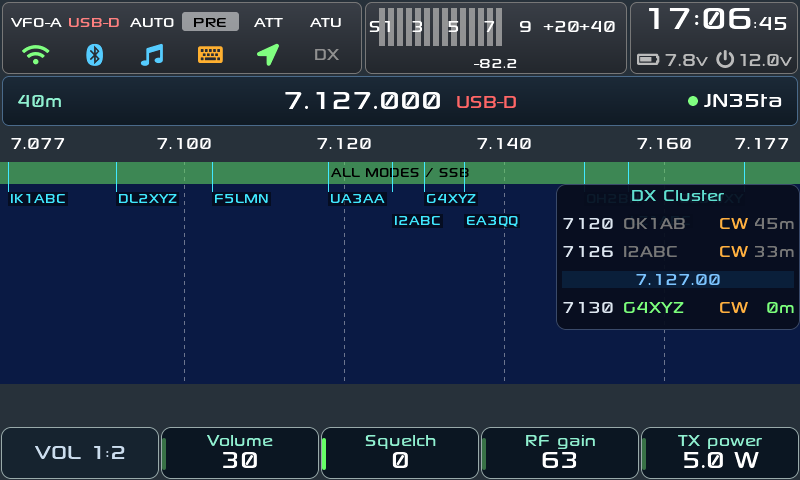
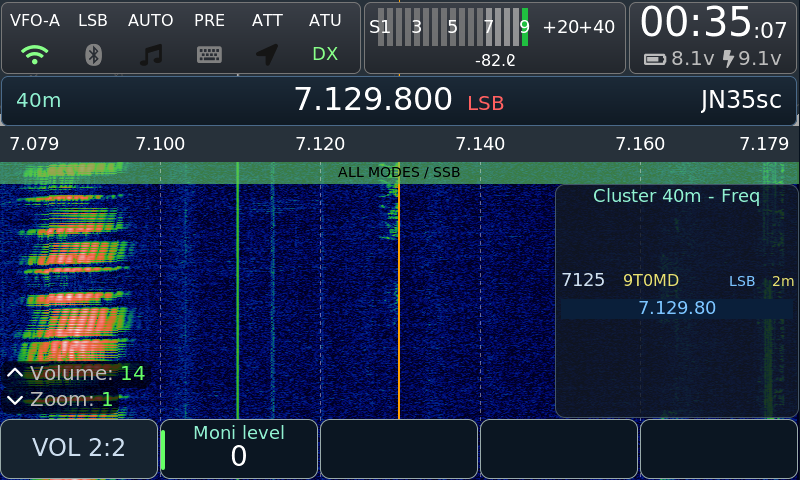
README: Field Ops, Bands and the test beacon in depth, Outdoor theme, cluster view, with radio screenshots

diff --git a/README.md b/README.md
@@ -28,6 +28,9 @@ radio by itself.
 - Safe by default: the VFO is locked while an app runs (**BASE** brings it
   back), and the phone transmits only after you switch on **Remote TX** on the
   radio (Settings → Wireless → WEB REMOTE).
+- **SOTA/POTA page** that opens by itself when the radio enters Field Ops:
+  choose the reference, start the activation, log QSOs with the phone's
+  keyboard, spot; the phone's GPS gives the radio its position.
 - Portrait and landscape, English or Italian.
 
 **From any browser: the built-in web server** (`http://<radio IP>/`, nothing
@@ -74,17 +77,99 @@ transmits by itself.
   **Cluster app** that follows the VFO; tap or press to tune.
 - Filters by mode, band and POTA/SOTA; **alerts** on callsigns and prefixes
   with a popup.
+- **Newest first** and **all bands**: the column and the app can list the
+  spots by time (the most recent on top, without the VFO marker row) and from
+  every band, not only the current one (Settings → Cluster → CLUSTER VIEW, or
+  the MFK while the column is shown).
 - **Spot snap**: turning the knob slowly stops the VFO on a spot.
 - Ten public servers built in, add your own from the web page.
 
+<table>
+  <tr>
+    <td align="center"><img src="docs/screenshots/cluster_column.png" alt="Cluster column by frequency"><br><sub><b>Cluster column</b> by frequency, around the VFO</sub></td>
+    <td align="center"><img src="docs/screenshots/cluster_column_time.png" alt="Cluster column by time"><br><sub><b>Newest first</b>, all bands</sub></td>
+  </tr>
+</table>
+
 ### Field Ops: SOTA and POTA
 
-- A **full-screen interface for activations**: finds the summit or park where
-  you are (radio GPS, the phone's position or the locator), starts the
-  activation, logs the QSOs in ADIF with the reference, spots you on POTA.
-- **Bands** with the Reverse Beacon Network: activity per band, who hears you
-  and a CW **test beacon**, also as an app of its own outside Field Ops.
-- Leaving it with GEN, or a restart, loses nothing: it all lives on the SD card.
+A second, separate interface made for portable activations, with big tiles and
+big text that read well outdoors and work with gloves: APP (page 3) →
+**Field Ops**, a long-press action, or straight at power on (**Start here**).
+The main knob still tunes, the MFK chooses, a press (or a tap) opens.
+**GEN** goes back to the normal radio screen.
+
+<table>
+  <tr>
+    <td align="center"><img src="docs/screenshots/field_home.png" alt="Field Ops home"><br><sub><b>Home</b>: SOTA, POTA, Bands</sub></td>
+    <td align="center"><img src="docs/screenshots/field_sota.png" alt="SOTA"><br><sub><b>SOTA</b>: the summit and the ones nearby</sub></td>
+  </tr>
+  <tr>
+    <td align="center"><img src="docs/screenshots/field_activation.png" alt="Activation"><br><sub><b>Activation</b>: CQ, log, spot</sub></td>
+    <td align="center"><img src="docs/screenshots/field_bands.png" alt="Bands"><br><sub><b>Bands</b>: live activity and who hears you</sub></td>
+  </tr>
+</table>
+
+**Where am I?** Field Ops finds the summit or park you are on by itself.
+- The position comes from the radio's **GPS**, else from the **phone** (the
+  companion app sends it), else from the **QTH locator**. A dot in the header
+  tells which: green for a real position, yellow for the locator.
+- The SOTA summits and POTA parks of the whole world (about 35 MB) are
+  downloaded once over WiFi (**Update list**, about 3 minutes, or from the web
+  page); after that everything works **offline**, on a summit with no signal.
+- The nearest reference is chosen for you, with its name, altitude and points
+  (SOTA), locator and distance; the others nearby are listed, and **Ref...**
+  types one by hand.
+
+**The activation.** **Start** opens it, and the screen becomes a dashboard
+with the band, frequency, mode, S-meter, the CQ text with your reference, the
+QSO count, the time since the start and the last call.
+- **CQ** calls `CQ CQ SOTA DE <call>` (or POTA) in CW.
+- **Log QSO** takes the call and the reports (599 / 59 by default) and writes
+  the QSO at once to an **ADIF** file on the SD card, with `MY_SOTA_REF` or
+  `MY_SIG POTA` / `MY_POTA_REF`: ready for the SOTA database, POTA or QRZ.
+  The logs download from the web page.
+- **Spot** self-spots you on **pota.app** with the radio's frequency and mode.
+  For SOTA, post an alert on SOTAwatch and call CQ in CW: RBNHole spots you
+  from the Reverse Beacon Network.
+- **End**, pressed twice, closes the activation.
+
+**Nothing is lost.** The reference, the activation running, its log and the
+screen you were on live on the SD card: leave with GEN by mistake, switch off,
+change the battery, and Field Ops comes back exactly where it was.
+
+**On the phone.** When the radio enters Field Ops, the companion app switches
+by itself to its SOTA/POTA page: the reference and the nearby ones to choose
+with a tap, Start and End, and the QSO entry with the phone's keyboard (call,
+RST sent and received), the QSO list in local time, Spot. The phone also
+gives the radio its position.
+
+### Bands: where is the band open, and who hears me?
+
+A live picture of the HF bands from 160 to 6 m, inside Field Ops and as an
+app of its own (APP page 3 → **Bands**), in the same look as the other apps.
+
+<table>
+  <tr>
+    <td align="center"><img src="docs/screenshots/field_bands.png" alt="Band overview"><br><sub>Live on the radio: 20 m is the best band</sub></td>
+    <td align="center"><img src="docs/screenshots/bands_app.png" alt="Bands app"><br><sub><b>Bands</b> app after a <b>Test beacon</b>: heard on 20 m by 3 skimmers</sub></td>
+  </tr>
+</table>
+
+- For every band: the **DX cluster** spots of the last 30 minutes and the
+  **Reverse Beacon Network** skimmer spots of the last 15, merged into one
+  activity bar and a word (**HIGH / GOOD / FAIR / POOR**). The best band is
+  framed.
+- **Test beacon**: the radio sends `TEST DE <call>` in CW. The RBN skimmers
+  around the world that copy you show up within a minute in the **heard**
+  column of each band, with how many heard you and the best SNR: a real
+  propagation test from your own antenna, with your own power, before you
+  start calling CQ. Then the info line says who heard you
+  (`DK8NE +18 dB, OH6BG +7 dB...`), or tells you to try the beacon.
+- **Use band** (or an MFK press) tunes a typical activation frequency of the
+  chosen band, CW or phone as the radio's mode.
+- RBN is connected only while the screen is open; it needs WiFi and your
+  callsign. No account, nothing to install.
 
 ### Radio and screen
 
@@ -93,7 +178,10 @@ transmits by itself.
   recorder, mute, open any app or tool.
 - Editable bands, memories and digital frequencies; transverters.
 - RX recorder, screen recording, screenshots, voice messages.
-- CW trainer, SWR scan, GPS, QTH grid.
+- CW trainer, GPS, QTH grid, **SWR scan** across the band with the
+  frequency labels on top.
+- Times on screen in **local time** (time zone in Settings); logs and ADIF
+  stay in UTC.
 - Settings rewritten as cards, all reachable with the MFK.
 
 ### Wireless
@@ -123,25 +211,36 @@ transmits by itself.
 
 The GUI has a new **theme system**: colours, buttons, corners, gradients,
 fonts and the waterfall palette all come from the theme, and a theme can draw
-every surface with PNG images. Three are built in, choose them in Settings →
-Display → **Theme**; your own go on the SD card
-([how to make one](docs/THEMES.md)). The control the encoder is adjusting
-lights its red LED.
+every surface with PNG images. Four come with the firmware: choose one in
+Settings → Display → **Theme** and the radio app restarts with it at once.
+Your own go on the SD card ([how to make one](docs/THEMES.md)). The control
+the encoder is adjusting lights its red LED.
+
+**Outdoor** is made for the sun: light backgrounds, black text, strong
+borders, switches and icons that stay visible when off, and a waterfall
+palette that goes from pale blue to deep red and black, so the signals stand
+out even in full daylight.
 
 <table>
   <tr>
     <td align="center"><img src="docs/screenshots/theme_iu1wxy.png" alt="IU1WXY theme"><br><sub><b>IU1WXY</b> (default): dark blue-grey</sub></td>
-    <td align="center"><img src="docs/screenshots/theme_classic.png" alt="Classic theme"><br><sub><b>Classic</b>: black, grey keys</sub></td>
+    <td align="center"><img src="docs/screenshots/theme_outdoor.png" alt="Outdoor theme"><br><sub><b>Outdoor</b>: light, high contrast, for the sun</sub></td>
   </tr>
   <tr>
+    <td align="center"><img src="docs/screenshots/theme_classic.png" alt="Classic theme"><br><sub><b>Classic</b>: black, grey keys</sub></td>
     <td align="center"><img src="docs/screenshots/theme_rs.png" alt="RS theme"><br><sub><b>RS</b>: glossy buttons with LEDs, black LCD</sub></td>
+  </tr>
+  <tr>
     <td align="center"><img src="docs/screenshots/theme_rs_settings.png" alt="RS settings"><br><sub><b>RS</b>: settings</sub></td>
+    <td align="center"><img src="docs/screenshots/theme_rs_sstv.png" alt="RS SSTV"><br><sub><b>RS</b>: SSTV TX</sub></td>
   </tr>
 </table>
 
 ## Install
 
-1. Download `sdcard.v0.9.img.zip` from the **[latest release](https://github.com/IU1WXY/X6100-IU1WXY/releases/latest)** and unzip it.
+1. Download the microSD image (`X6100-IU1WXY-v<version>-sdcard.img`) and the
+   companion app (`X6100-IU1WXY-v<version>-Companion.apk`) from the
+   **[latest release](https://github.com/IU1WXY/X6100-IU1WXY/releases/latest)**.
 2. Write it to a microSD card with [balenaEtcher](https://etcher.balena.io/) or Rufus.
 3. Put the card in the radio and switch on. Settings and logs live on the card's
    DATA partition (`/mnt`).
@@ -162,9 +261,11 @@ or newer is recommended for the TX audio options.
 **Giovanni Ricciardi IU1WXY** designed and wrote this firmware:
 
 - the deep **rewrite of the GUI** and the **theme system**, with the IU1WXY,
-  Classic and RS themes and the new settings;
+  Outdoor, Classic and RS themes and the new settings;
 - the **X6100 Companion** app and the **remote control** of the radio (remote
   API, web Remote page, gallery, backup);
+- **Field Ops** (SOTA/POTA activations, offline references, ADIF, POTA
+  spots) and **Bands** (Reverse Beacon Network, test beacon);
 - the **DX Cluster** (waterfall spots, column, app, filters, alerts, spot snap);
 - **WSPR**, **SSTV TX**, **RTTY** and **WeFax TX**, the **CW Keyboard**, the
   integration of JS8, SSTV, WeFax and NavTex into the radio;

diff --git a/docs/MANUAL.md b/docs/MANUAL.md
@@ -272,16 +272,21 @@ asks for the latest 50 spots (`sh/dx`).
   the waterfall (across the band plan strip) and the callsign under it, in
   two staggered rows on a dark see-through background; alert calls are pink.
   The waterfall does not move.
-- **Spot snap hold** (0-5, 0 = off) and **Spot snap speed** (1-5): with the
-  cluster spots shown, turning the main knob slowly (at most *speed* detents
-  at a time) stops the VFO on a spot it passes for *hold* more detents.
-  Turning fast goes past. Without the cluster spots there is no snap.
 - **Cluster column**: a box at the right of the waterfall (80 % opaque) with
   the spots (kHz, callsign, mode, age) around the VFO marker row, coloured by
   age: green under 2 minutes, yellow under 10, amber under 30, grey older.
   The title shows the view (`Cluster 40m - Freq`). While the column is shown,
   the MFK has two more items, **Cluster order** (Freq / Time) and **Cluster
   bands** (Band / All), the same settings as in the app.
+  In time order the newest spot is on top and there is no VFO marker row.
+
+**Cluster view** (Settings → Cluster → CLUSTER VIEW): **Newest first** and
+**All bands** (the same as Cluster order and Cluster bands), and:
+
+- **Spot snap hold** (0-5, 0 = off) and **Spot snap speed** (1-5): with the
+  cluster spots shown, turning the main knob slowly (at most *speed* detents
+  at a time) stops the VFO on a spot it passes for *hold* more detents.
+  Turning fast goes past. Without the cluster spots there is no snap.
 
 Both use the same client as the app.
 
